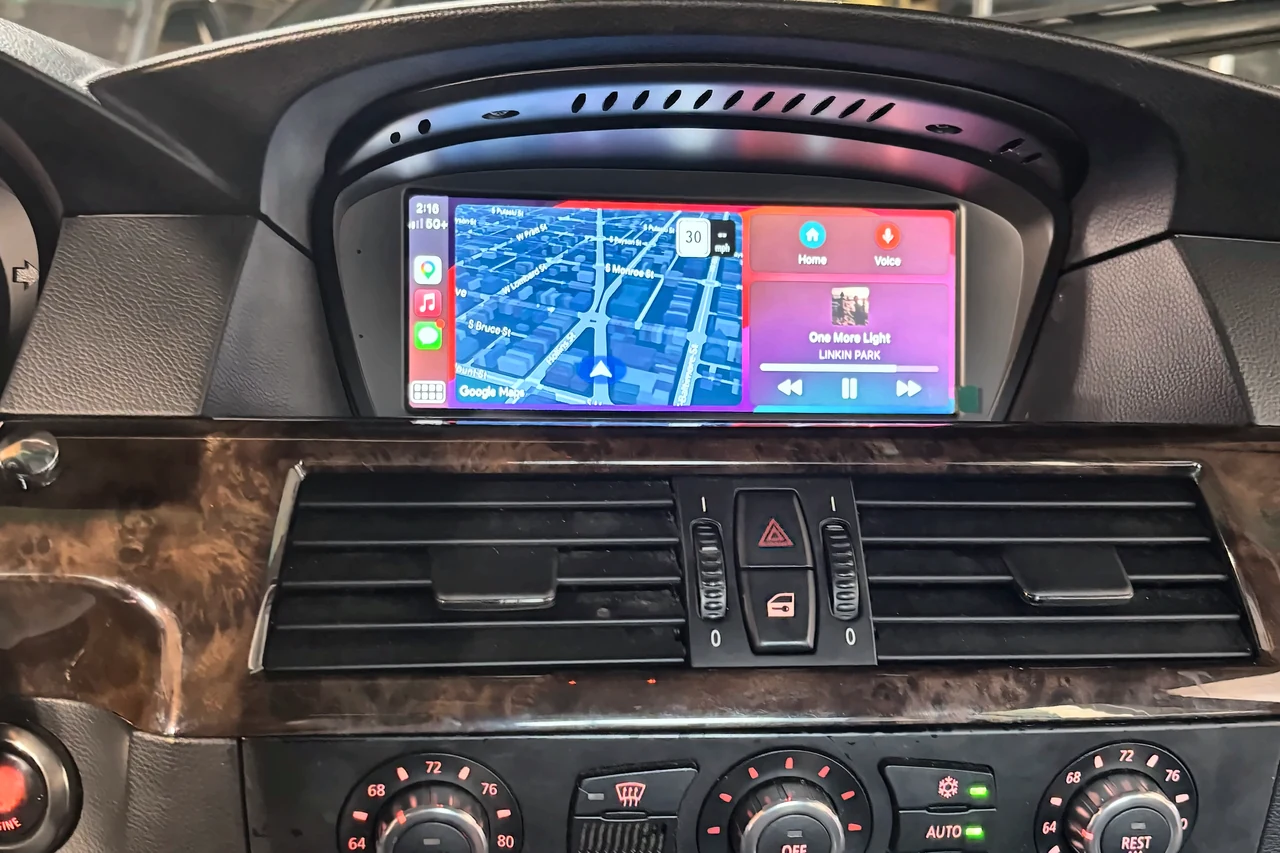
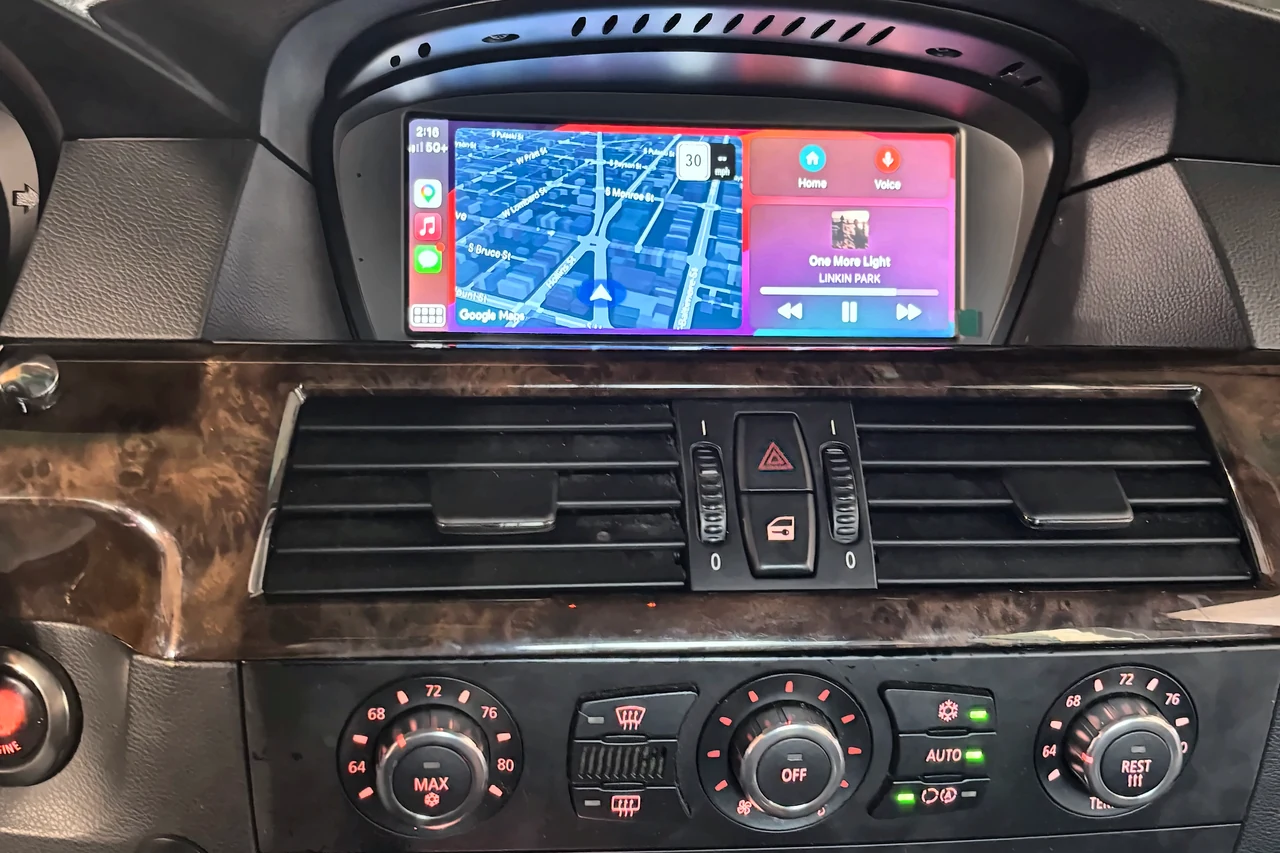
Preview: sharper E60 factory-menu shot from stacked video frames
Claude-Session: https://claude.ai/code/session_01YA1ZGsTeUYZYBCBbqpuyre

diff --git a/index.html b/index.html
@@ -95,8 +95,8 @@
     <p class="ig-desc">A replacement touchscreen with Apple CarPlay, fitted into the original E60 screen hood. The factory CCC menu is still there.</p>
     <div class="ig-compare" data-show="after">
       <div class="ig-toggle" role="group" aria-label="Show factory menu or CarPlay"><button type="button" data-ig-show="before" aria-pressed="false">Factory menu</button><button type="button" data-ig-show="after" aria-pressed="true">CarPlay</button></div>
-      <figure class="ig-shot" data-ig-shot="before" style="--pos:50% 30%"><img src="assets/installations/bmw-550i-e60-before-1280.webp?v=4" srcset="assets/installations/bmw-550i-e60-before-640.webp?v=4 640w, assets/installations/bmw-550i-e60-before-1280.webp?v=4 1280w" sizes="(max-width: 760px) calc(100vw - 40px), 460px" width="1280" height="853" loading="lazy" decoding="async" alt="2007 BMW 550i E60 dashboard showing the original BMW CCC menu"><figcaption>Factory menu</figcaption></figure>
-      <figure class="ig-shot" data-ig-shot="after" style="--pos:50% 30%"><img src="assets/installations/bmw-550i-e60-after-1280.webp?v=3" srcset="assets/installations/bmw-550i-e60-after-640.webp?v=3 640w, assets/installations/bmw-550i-e60-after-1280.webp?v=3 1280w" sizes="(max-width: 760px) calc(100vw - 40px), 460px" width="1280" height="853" loading="lazy" decoding="async" alt="The same BMW 550i dashboard running Apple CarPlay maps and music"><figcaption>CarPlay</figcaption></figure>
+      <figure class="ig-shot" data-ig-shot="before" style="--pos:50% 30%"><img src="assets/installations/bmw-550i-e60-before-1280.webp?v=5" srcset="assets/installations/bmw-550i-e60-before-640.webp?v=5 640w, assets/installations/bmw-550i-e60-before-1280.webp?v=5 1280w" sizes="(max-width: 760px) calc(100vw - 40px), 460px" width="1280" height="853" loading="lazy" decoding="async" alt="2007 BMW 550i E60 dashboard showing the original BMW CCC menu"><figcaption>Factory menu</figcaption></figure>
+      <figure class="ig-shot" data-ig-shot="after" style="--pos:50% 30%"><img src="assets/installations/bmw-550i-e60-after-1280.webp?v=5" srcset="assets/installations/bmw-550i-e60-after-640.webp?v=5 640w, assets/installations/bmw-550i-e60-after-1280.webp?v=5 1280w" sizes="(max-width: 760px) calc(100vw - 40px), 460px" width="1280" height="853" loading="lazy" decoding="async" alt="The same BMW 550i dashboard running Apple CarPlay maps and music"><figcaption>CarPlay</figcaption></figure>
     </div>
     <ul class="ig-keep" aria-label="What you keep"><li>Factory CCC menus</li><li>iDrive knob</li><li>Apple CarPlay with touch</li></ul>
     <div class="ig-actions"><a class="btn" href="#owner-check" data-form-jump>Check if my car fits</a><button type="button" class="ig-next" data-ig-next>Next install <span aria-hidden="true">→</span></button></div>
